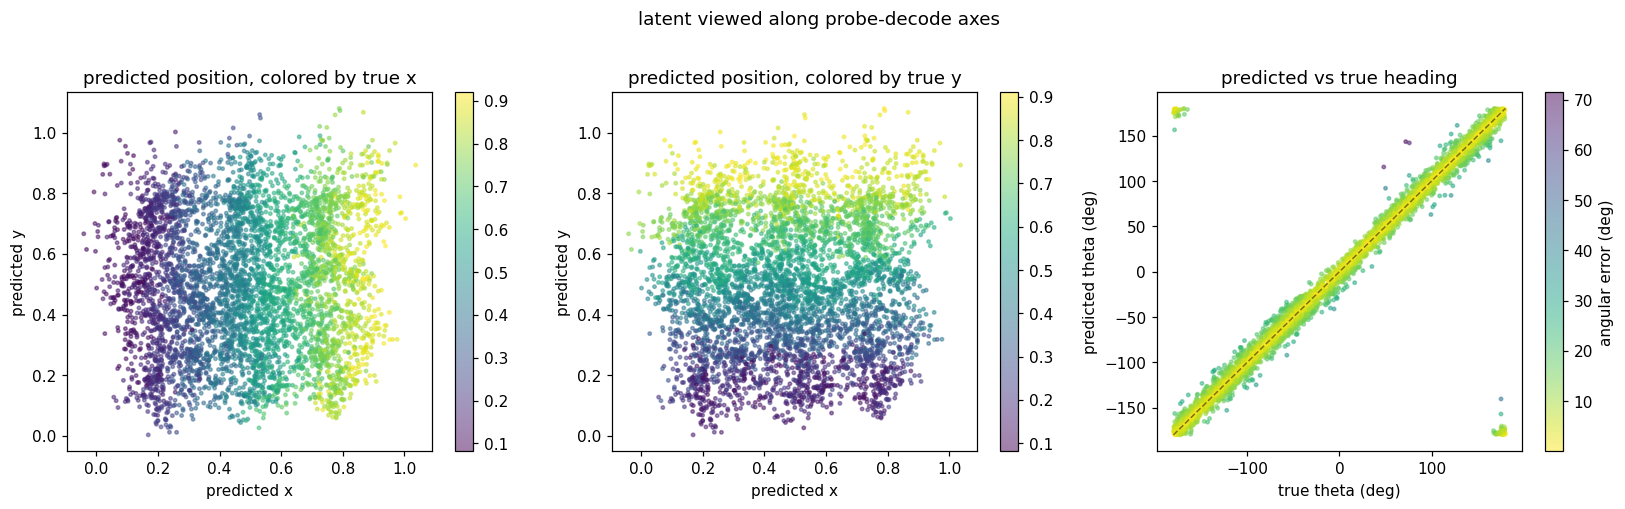
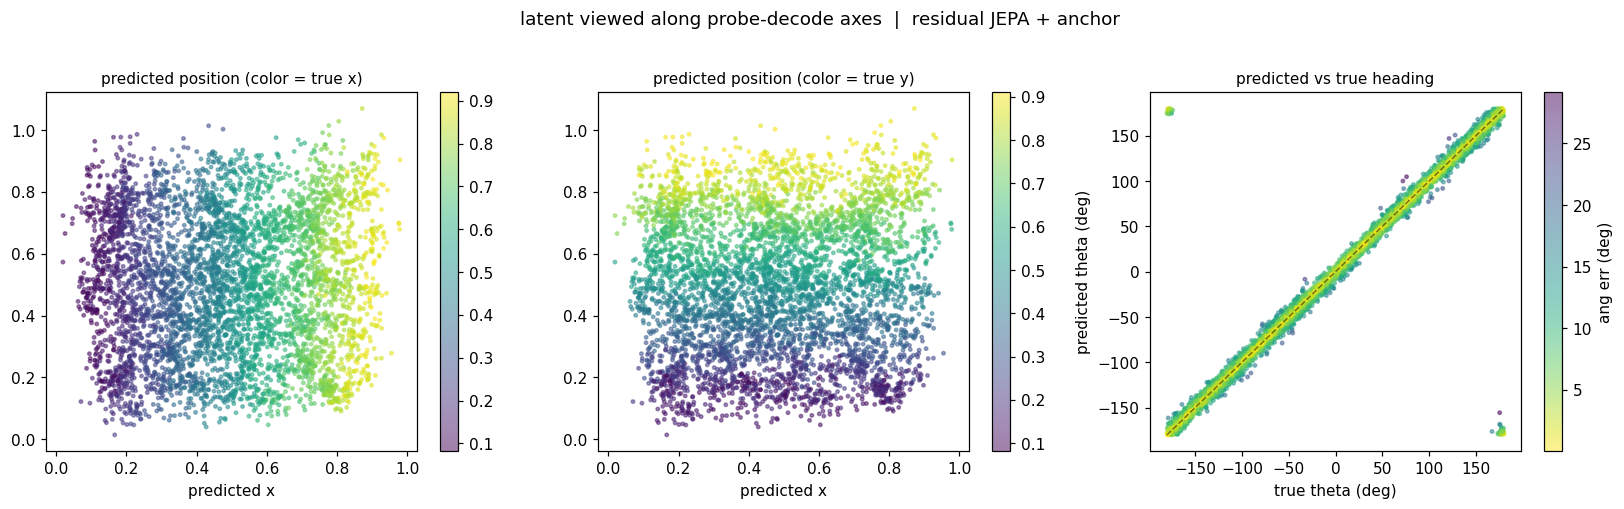
Add 4-way latent-axes comparison figure + master metrics CSV across state-supervised models

diff --git a/compare_axes.py b/compare_axes.py
@@ -1,0 +1,143 @@
+"""Side-by-side latent-probe-axes comparison across the four state-supervised models.
+
+Run on the tower (needs torch + the run06 dataset + the four checkpoints):
+
+    python compare_axes.py
+
+Produces results/_compare/axes_4way.png (4 rows, one per model) and also drops a
+per-model latent_probe_axes.png into each model's results folder (so the grounded and
+ego runs get the figure they did not generate at train time).
+
+The panel is gauge-invariant: it fits a linear probe over the WHOLE latent and plots the
+probe's readout, so it is directly comparable across the JEPA, grounded, and ego latents
+even though they have different latent dimensions (128 vs 128 vs 4).
+"""
+
+import os
+os.environ.setdefault("KMP_DUPLICATE_LIB_OK", "TRUE")
+
+import sys
+from pathlib import Path
+
+ROOT = next(p for p in (Path.cwd(), *Path.cwd().parents) if (p / "config.py").exists())
+if str(ROOT) not in sys.path:
+    sys.path.insert(0, str(ROOT))
+
+import numpy as np
+import torch
+import matplotlib
+matplotlib.use("Agg")
+import matplotlib.pyplot as plt
+
+import config as C
+from models.dataset import make_dataloaders
+from models.jepa import JEPA
+from models.grounded import GroundedJEPA
+from models.state_ae import EgoWorldModel
+from eval.probe import extract_latents, make_linear_probe, train_probe, state_to_target
+
+RUN  = "run06_64x64_bignose"
+GRID = 64
+DATA = C.DATASETS_DIR / f"{RUN}.h5"
+CK   = C.CHECKPOINTS_DIR
+
+
+def build_models():
+    """(label, model, checkpoint path, results-folder name) for each run, in order."""
+    return [
+        ("residual JEPA + readout head",
+         JEPA(grid_size=GRID, latent_dim=128, predictor_mode="residual", state_head=True),
+         CK / f"{RUN}_residual_s1_e20_rd1.pt", f"{RUN}_residual_s1_e20_rd1"),
+        ("residual JEPA + anchor",
+         JEPA(grid_size=GRID, latent_dim=128, predictor_mode="residual", state_head=False),
+         CK / f"{RUN}_residual_s1_e20_anc1.pt", f"{RUN}_residual_s1_e20_anc1"),
+        ("grounded + block anchor",
+         GroundedJEPA(grid_size=GRID, latent_dim=128, block_dim=4, dt=C.DT,
+                      lock_block=True, block_budget=0.0, use_decoder=False),
+         CK / f"{RUN}_grounded_s1_e20_anc1.pt", f"{RUN}_grounded_s1_e20_anc1"),
+        ("ego + anchor + anchor_pred",
+         EgoWorldModel(grid_size=GRID, dt=C.DT, residual_budget=0.0, learn_coeffs=False, decoder="mlp"),
+         CK / f"{RUN}_ego_s1_e20_fg5_anc1_ancp1_mlpdec.pt", f"{RUN}_ego_s1_e20_fg5_anc1_ancp1_mlpdec"),
+    ]
+
+
+def draw_row(axes_row, Z, S, fig, seed=0, epochs=80):
+    """Fit a linear probe over Z and draw the 3 probe-decode panels into axes_row."""
+    torch.manual_seed(seed)
+    probe = make_linear_probe(Z.shape[1])
+    probe = train_probe(probe, Z, state_to_target(S), epochs=epochs, device="cpu")
+    with torch.no_grad():
+        pred = probe(Z.cpu()).numpy()
+    s = S.cpu().numpy()
+
+    rng = np.random.default_rng(seed)
+    n   = min(5000, Z.shape[0])
+    idx = rng.choice(Z.shape[0], size=n, replace=False)
+    pred, s = pred[idx], s[idx]
+    px, py, pcos, psin = pred[:, 0], pred[:, 1], pred[:, 2], pred[:, 3]
+    tx, ty, tth = s[:, 0], s[:, 1], s[:, 2]
+
+    a0, a1, a2 = axes_row
+    s0 = a0.scatter(px, py, c=tx, cmap="viridis", s=5, alpha=0.5)
+    a0.set_xlabel("predicted x"); fig.colorbar(s0, ax=a0)
+    s1 = a1.scatter(px, py, c=ty, cmap="viridis", s=5, alpha=0.5)
+    a1.set_xlabel("predicted x"); fig.colorbar(s1, ax=a1)
+
+    pth = np.arctan2(psin, pcos)
+    d   = pth - tth
+    ang = np.degrees(np.abs(np.arctan2(np.sin(d), np.cos(d))))
+    s2 = a2.scatter(np.degrees(tth), np.degrees(pth), c=ang, cmap="viridis_r", s=5, alpha=0.5)
+    a2.plot([-180, 180], [-180, 180], "k--", lw=1, alpha=0.5)
+    a2.set_xlabel("true theta (deg)"); a2.set_ylabel("predicted theta (deg)")
+    fig.colorbar(s2, ax=a2, label="ang err (deg)")
+    return float(ang.mean())
+
+
+def main():
+    device = "cuda" if torch.cuda.is_available() else "cpu"
+    if not DATA.exists():
+        raise SystemExit(f"dataset not found: {DATA}")
+    models = build_models()
+
+    fig, axes = plt.subplots(len(models), 3, figsize=(15, 4.3 * len(models)))
+    col_titles = ["predicted position (color = true x)",
+                  "predicted position (color = true y)",
+                  "predicted vs true heading"]
+
+    for r, (name, model, ckpt, folder) in enumerate(models):
+        if not ckpt.exists():
+            print(f"!! missing checkpoint, skipping row: {ckpt}")
+            continue
+        model.load_state_dict(torch.load(ckpt, map_location=device, weights_only=True))
+        _, vdl = make_dataloaders(DATA, batch_size=256, seed=C.SEED, return_state=True, step=1)
+        Z, S = extract_latents(model, vdl, device)
+        mae = draw_row(axes[r], Z, S, fig)
+        axes[r][0].set_ylabel(f"{name}\n(theta_mae {mae:.1f} deg)", fontsize=9, fontweight="bold")
+        if r == 0:
+            for c in range(3):
+                axes[0][c].set_title(col_titles[c], fontsize=10)
+
+        # also save this model's own latent_probe_axes.png into its results folder
+        rep = C.RESULTS_DIR / folder
+        if rep.exists():
+            sub, sax = plt.subplots(1, 3, figsize=(15, 4.5))
+            draw_row(sax, Z, S, sub)
+            for c in range(3):
+                sax[c].set_title(col_titles[c], fontsize=10)
+            sub.suptitle(f"latent viewed along probe-decode axes  |  {name}", y=1.02)
+            sub.tight_layout()
+            sub.savefig(rep / "latent_probe_axes.png", dpi=110, bbox_inches="tight")
+            plt.close(sub)
+            print(f"wrote {rep / 'latent_probe_axes.png'}")
+        print(f"row {r}: {name}  (latent dim {Z.shape[1]}, theta_mae {mae:.2f})")
+
+    fig.suptitle("latent viewed along probe-decode axes  |  run06 big-nose, s1", y=1.003, fontsize=13)
+    fig.tight_layout()
+    out = C.RESULTS_DIR / "_compare"
+    out.mkdir(parents=True, exist_ok=True)
+    fig.savefig(out / "axes_4way.png", dpi=110, bbox_inches="tight")
+    print(f"wrote {out / 'axes_4way.png'}")
+
+
+if __name__ == "__main__":
+    main()
